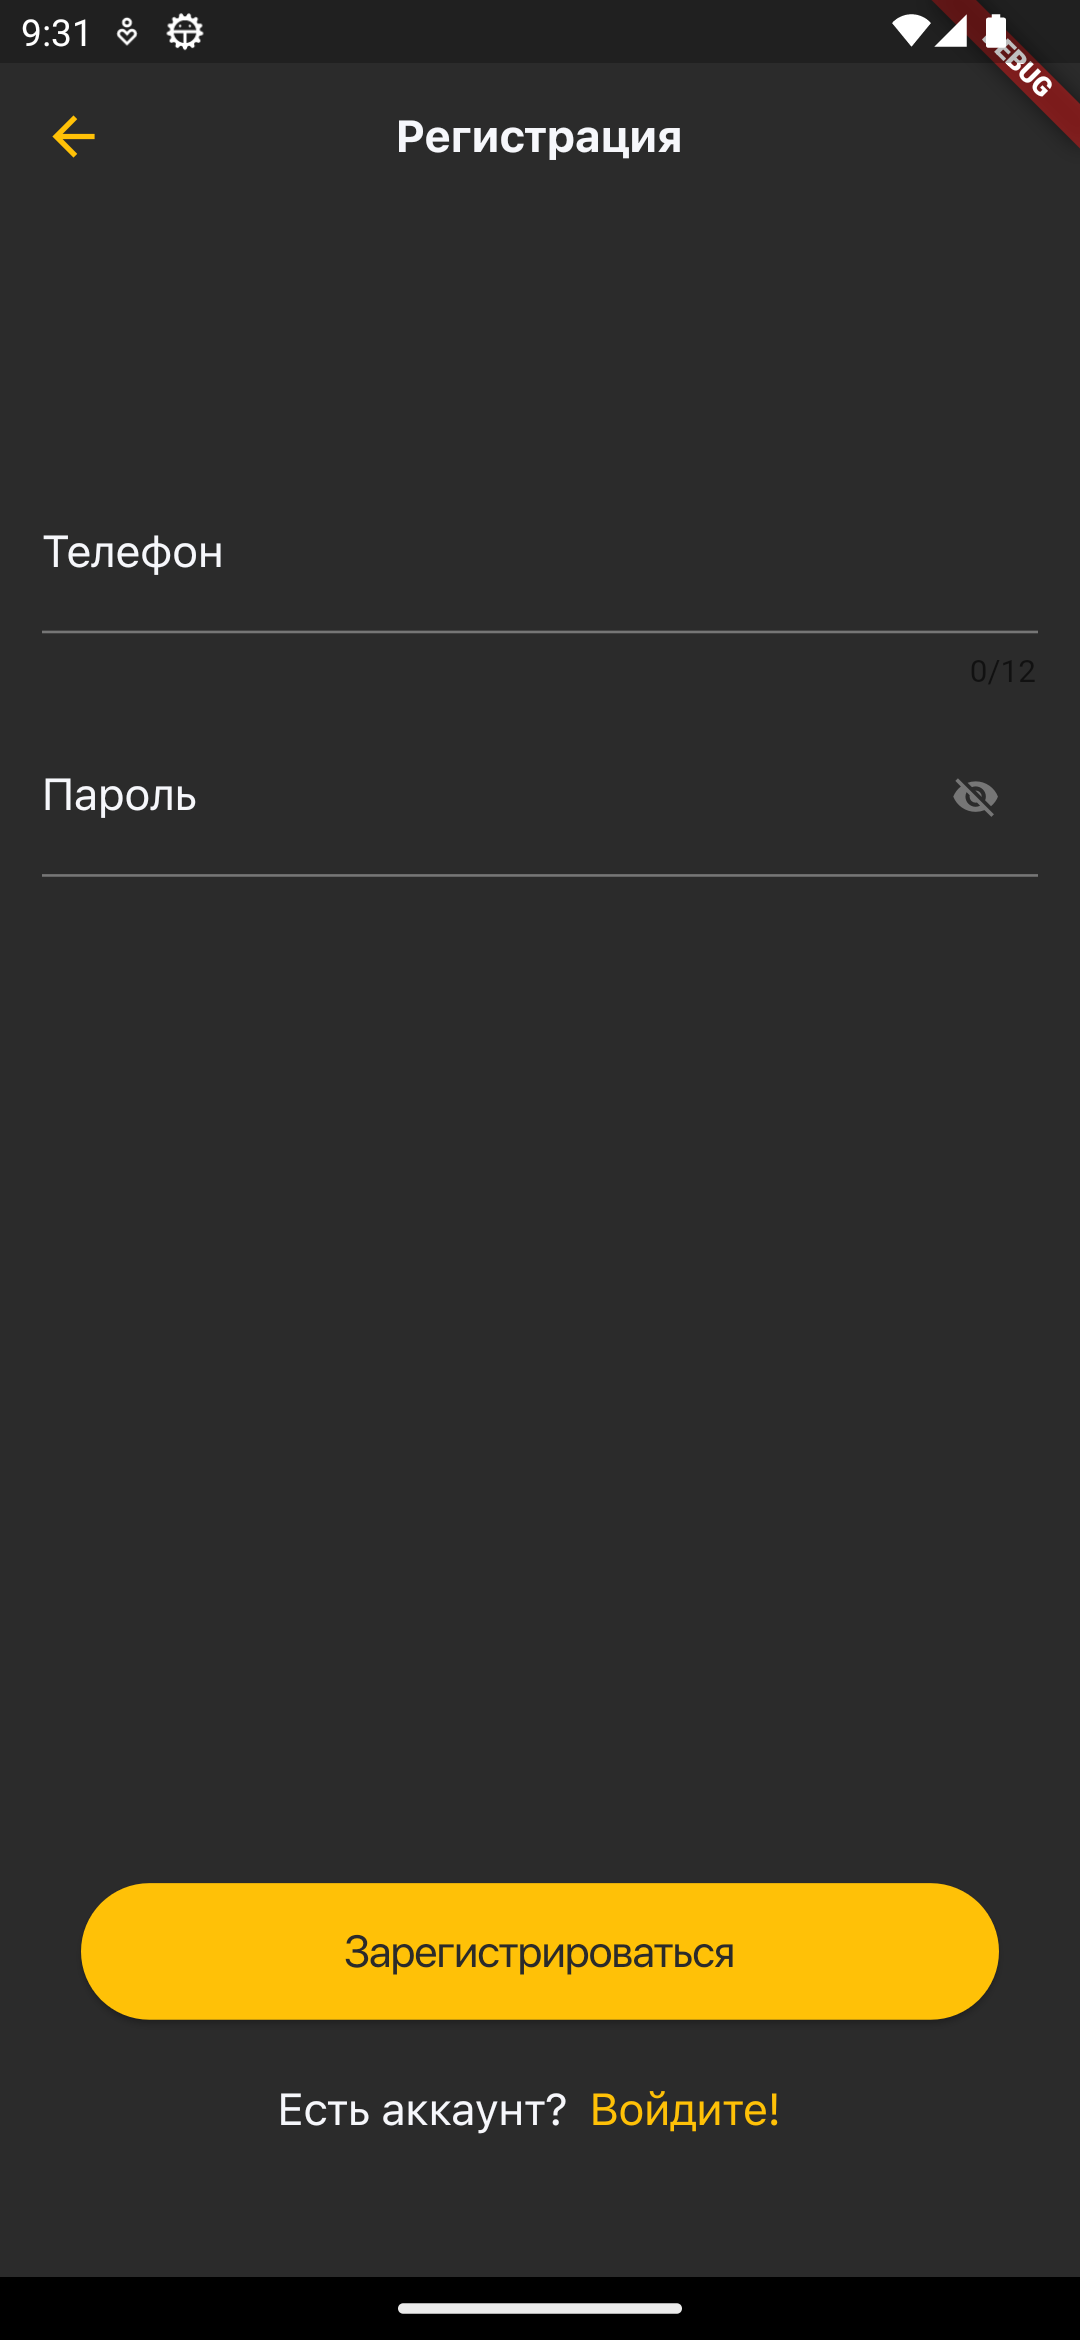
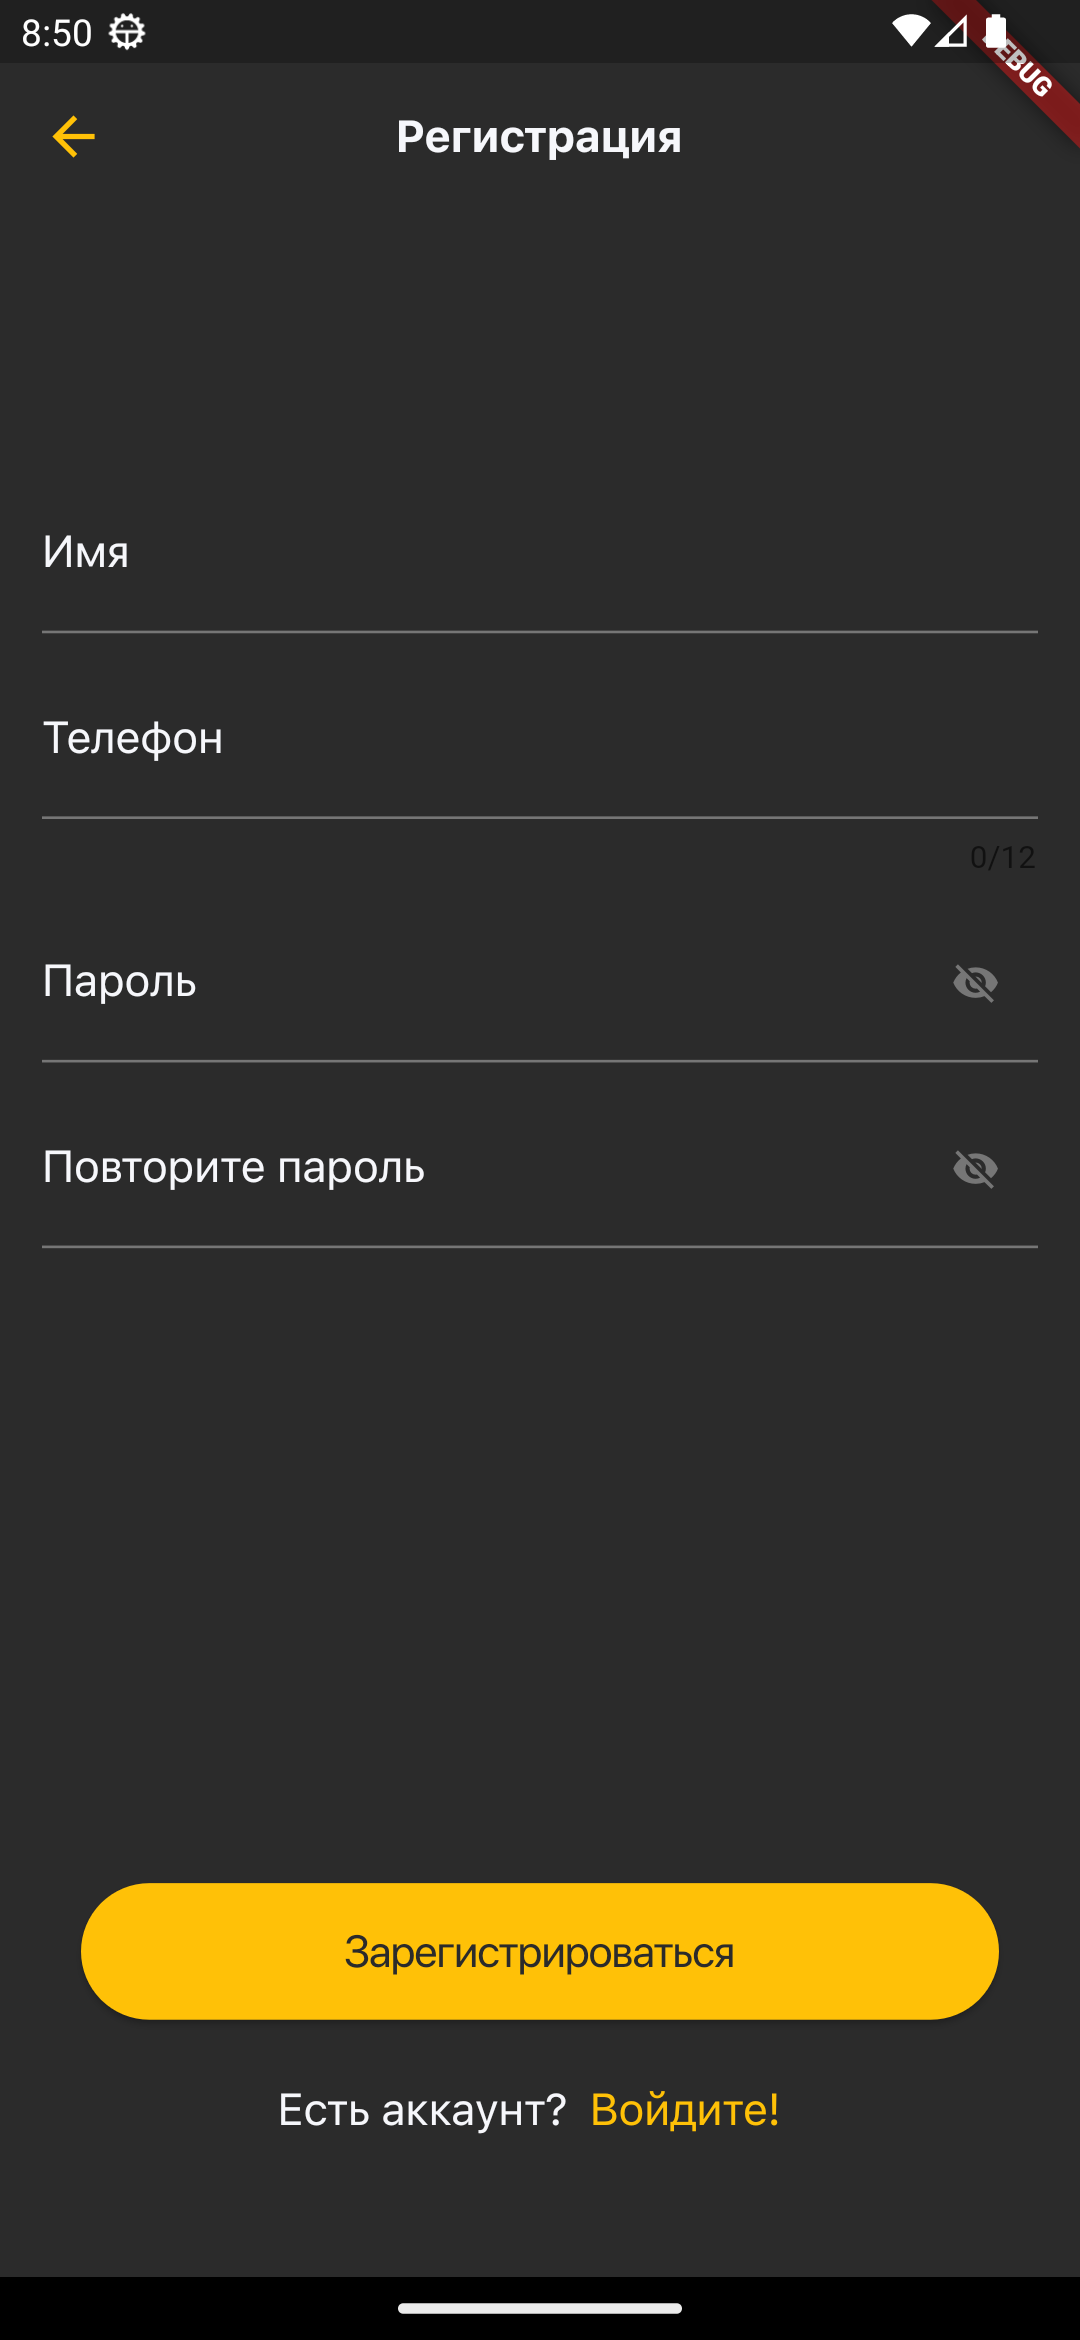
added changes to the register page, and navigation. changed file: read me md.

diff --git a/lib/ui/pages/authorization/components/name_text_form.dart b/lib/ui/pages/authorization/components/name_text_form.dart
@@ -1,0 +1,48 @@
+import 'package:flutter/material.dart';
+
+class NameTextForm extends StatelessWidget {
+  NameTextForm({Key? key}) : super(key: key);
+
+  final TextEditingController textController = TextEditingController();
+
+  @override
+  Widget build(BuildContext context) {
+    return TextField(
+      keyboardType: TextInputType.phone,
+      style: const TextStyle(
+        fontFamily: 'SFProTextRegular',
+        color: Color(0xFFF6F7FB),
+        fontSize: 17.0,
+        fontWeight: FontWeight.w400,
+        letterSpacing: -0.41,
+      ),
+      cursorColor: const Color(0xFFF6F7FB),
+      controller: textController,
+      decoration: const InputDecoration(
+        enabledBorder: UnderlineInputBorder(
+          borderSide: BorderSide(color: Color(0xFF767676)),
+        ),
+        focusedBorder: UnderlineInputBorder(
+          borderSide: BorderSide(color: Color(0xFF767676)),
+        ),
+        errorBorder: UnderlineInputBorder(
+          borderSide: BorderSide(color: Color(0xFFD10000)),
+        ),
+        focusedErrorBorder: UnderlineInputBorder(
+          borderSide: BorderSide(color: Color(0xFFD10000)),
+        ),
+        border: UnderlineInputBorder(
+          borderSide: BorderSide(color: Color(0xFF767676)),
+        ),
+        labelText: 'Имя',
+        labelStyle: TextStyle(
+          fontFamily: 'SFProTextRegular',
+          color: Color(0xFFF6F7FB),
+          fontSize: 17.0,
+          fontWeight: FontWeight.w400,
+          letterSpacing: -0.41,
+        ),
+      ),
+    );
+  }
+}

diff --git a/lib/ui/pages/authorization/register_page.dart b/lib/ui/pages/authorization/register_page.dart
@@ -6,6 +6,7 @@ import 'widgets/authorization_button.dart';
 import 'widgets/password_text_form.dart';
 import 'widgets/phone_text_form.dart';
 import 'widgets/title_page.dart';
+import 'components/name_text_form.dart';
 
 class RegisterPage extends StatelessWidget {
   const RegisterPage({Key? key}) : super(key: key);
@@ -40,18 +41,26 @@ class RegisterPage extends StatelessWidget {
         elevation: 0,
       ),
       body: Stack(
-        alignment: Alignment.center,
         children: <Widget>[
           Padding(
             padding: const EdgeInsets.fromLTRB(16.0, 100.0, 16.0, 0),
             child: Column(
-              children: const <Widget>[
+              children: <Widget>[
+                // Text Form: Name.
+                NameTextForm(),
+                const SizedBox(height: 10.0),
+
                 // Text Form: Phone.
-                PhoneTextForm(),
-                SizedBox(height: 10.0),
+                const PhoneTextForm(),
+                const SizedBox(height: 10.0),
 
                 // Text Form: Password.
-                PasswordTextForm(label: 'Пароль'),
+                const PasswordTextForm(label: 'Пароль'),
+                const SizedBox(height: 10.0),
+
+                // Text Form: Confirm Password.
+                const PasswordTextForm(label: 'Повторите пароль'),
+                const SizedBox(height: 65.0),
               ],
             ),
           ),
